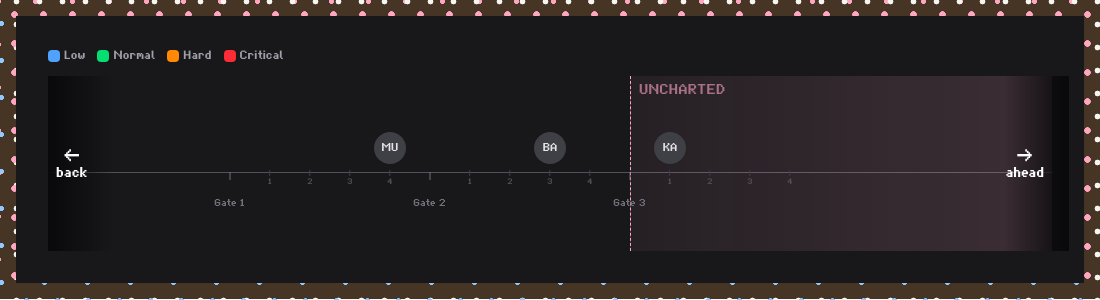
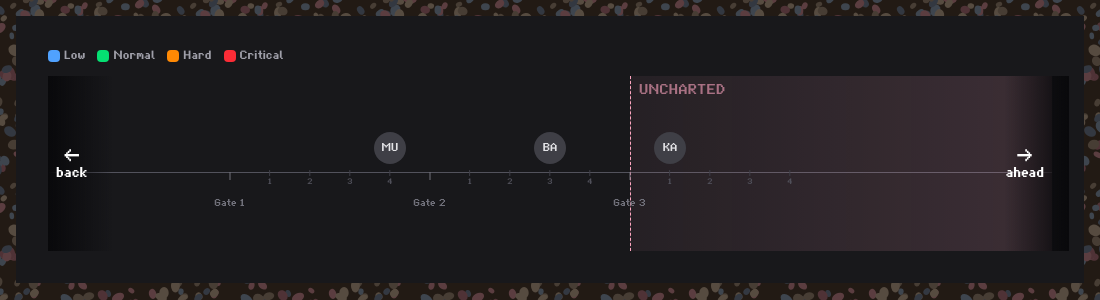
feat: make the muisjes carpet a dark SVG tile
Dot grids on a lattice read as mesh, and at full brightness they swallowed
the text on translucent surfaces like the shop's config cards. The carpet is
now a seamless SVG tile of scattered ellipses — one per variant, generated by
scripts/generate-muisjes-tiles.mjs — in tones dark enough to stay texture.
Screens lay a wash of rusk over it so the muisjes show through but calm down
behind the text.

Claude-Session: https://claude.ai/code/session_01XragerTWNRM11gs7F5vwsn

Changed region(s): [[0.0, 0.0, 1.0, 1.0]]

diff --git a/src/styles/app.css b/src/styles/app.css
@@ -469,13 +469,16 @@ meter::-webkit-meter-optimum-value {
    Activated by `data-skin="muisjes*"` on <html> (see src/config/skin.ts).
    Re-maps the named colour palette to rusk + aniseed-sprinkle tones, so every
    `text-vermillion` / `bg-saffron` / category theme in the app follows along,
-   and scatters muisjes over the page background. */
+   and beds the page on a carpet of muisjes. The carpet is a seamless SVG tile
+   per variant in /public/skins: baked in dark tones so it stays texture and
+   never competes with the text laid over it. */
 [data-skin^="muisjes"] {
 	--muisje-pink: oklch(82% 0.11 0);
 	--muisje-blue: oklch(82% 0.1 250);
 	--muisje-white: oklch(97% 0.008 90);
 	--beschuit: oklch(86% 0.06 75); /* rusk crumb */
 	--beschuit-crust: oklch(70% 0.1 60); /* baked edge */
+	--muisjes-tile: url("/skins/muisjes.svg");
 
 	/* Kanto palette → nursery palette. Same slots, sweeter hues. */
 	--color-pallet: var(--muisje-white);
@@ -494,47 +497,24 @@ meter::-webkit-meter-optimum-value {
 	--theme-color: var(--muisje-pink);
 }
 
-/* Girl / boy variants: one hue leads, the other becomes a lighter shade of
-   the same, so both the palette and the sprinkles follow along. */
+/* Girl / boy variants: one hue leads, and the carpet follows. */
 [data-skin="muisjes-pink"] {
-	--muisje-blue: oklch(89% 0.06 350);
 	--color-cerulean: oklch(86% 0.07 350);
+	--muisjes-tile: url("/skins/muisjes-pink.svg");
 	--theme-color: var(--muisje-pink);
 }
 
 [data-skin="muisjes-blue"] {
-	--muisje-pink: oklch(89% 0.05 230);
 	--color-vermillion: oklch(86% 0.07 230);
+	--muisjes-tile: url("/skins/muisjes-blue.svg");
 	--theme-color: var(--muisje-blue);
 }
 
-/* The sprinkles: five dot grids on coprime spacings, so the repeats never line
-   up and the muisjes read as a scattered carpet instead of a pattern. */
-[data-skin^="muisjes"] {
-	--muisjes-carpet:
-		radial-gradient(circle, var(--muisje-pink) 3px, transparent 3.6px),
-		radial-gradient(circle, var(--muisje-blue) 3px, transparent 3.6px),
-		radial-gradient(circle, var(--muisje-white) 2.6px, transparent 3.2px),
-		radial-gradient(circle, var(--muisje-pink) 2.2px, transparent 2.8px),
-		radial-gradient(circle, var(--muisje-blue) 2.2px, transparent 2.8px);
-	--muisjes-carpet-size: 29px 29px, 31px 31px, 23px 23px, 37px 43px, 43px 37px;
-	--muisjes-carpet-position: 0 0, 11px 7px, 5px 13px, 17px 23px, 23px 5px;
-
-	/* Same muisjes, spread thin — for surfaces that carry text. */
-	--muisjes-scatter:
-		radial-gradient(circle, var(--muisje-pink) 3px, transparent 3.6px),
-		radial-gradient(circle, var(--muisje-blue) 3px, transparent 3.6px),
-		radial-gradient(circle, var(--muisje-white) 2.4px, transparent 3px);
-	--muisjes-scatter-size: 97px 89px, 113px 101px, 79px 83px;
-	--muisjes-scatter-position: 0 0, 41px 29px, 17px 61px;
-}
-
-/* Warm the page ground from flat black to baked rusk, then bed it with a thick
-   layer of muisjes. `isolation` makes <body> a stacking context so the z-index
-   -1 layer lands above its own background instead of underneath it. */
+/* The carpet sits behind everything, so text keeps its own contrast.
+   `isolation` makes <body> a stacking context, otherwise the z-index -1 layer
+   would land underneath the body background instead of on top of it. */
 [data-skin^="muisjes"] body {
 	isolation: isolate;
-	background-color: oklch(34% 0.035 60);
 }
 
 [data-skin^="muisjes"] body::before {
@@ -543,38 +523,16 @@ meter::-webkit-meter-optimum-value {
 	inset: 0;
 	z-index: -1;
 	pointer-events: none;
-	opacity: 1;
-	background-image: var(--muisjes-carpet);
-	background-size: var(--muisjes-carpet-size);
-	background-position: var(--muisjes-carpet-position);
+	background-image: var(--muisjes-tile);
+	background-size: 180px 180px;
 }
 
-/* Every screen is a beschuit laid on that bed: an opaque rusk plate so text
-   keeps its contrast, with a few muisjes sprinkled over the top (click-through,
-   so nothing behind them changes behaviour). */
+/* Screens get a wash of rusk over the carpet: the muisjes stay visible through
+   it, but calm down behind the text. Nested screens share the one wash. */
 [data-skin^="muisjes"] [data-screen-transition] {
-	position: relative;
-	background-color: oklch(19% 0.018 60);
-	box-shadow: 0 0 0 1px oklch(from var(--beschuit-crust) l c h / 0.35);
+	background-color: color-mix(in oklab, #221a14 78%, transparent);
 }
 
-/* A screen nested in a screen is one beschuit, not two stacked plates. */
 [data-skin^="muisjes"] [data-screen-transition] [data-screen-transition] {
 	background-color: transparent;
-	box-shadow: none;
-}
-
-[data-skin^="muisjes"] [data-screen-transition] [data-screen-transition]::before {
-	display: none;
-}
-
-[data-skin^="muisjes"] [data-screen-transition]::before {
-	content: "";
-	position: absolute;
-	inset: 0;
-	pointer-events: none;
-	opacity: 0.4;
-	background-image: var(--muisjes-scatter);
-	background-size: var(--muisjes-scatter-size);
-	background-position: var(--muisjes-scatter-position);
 }
